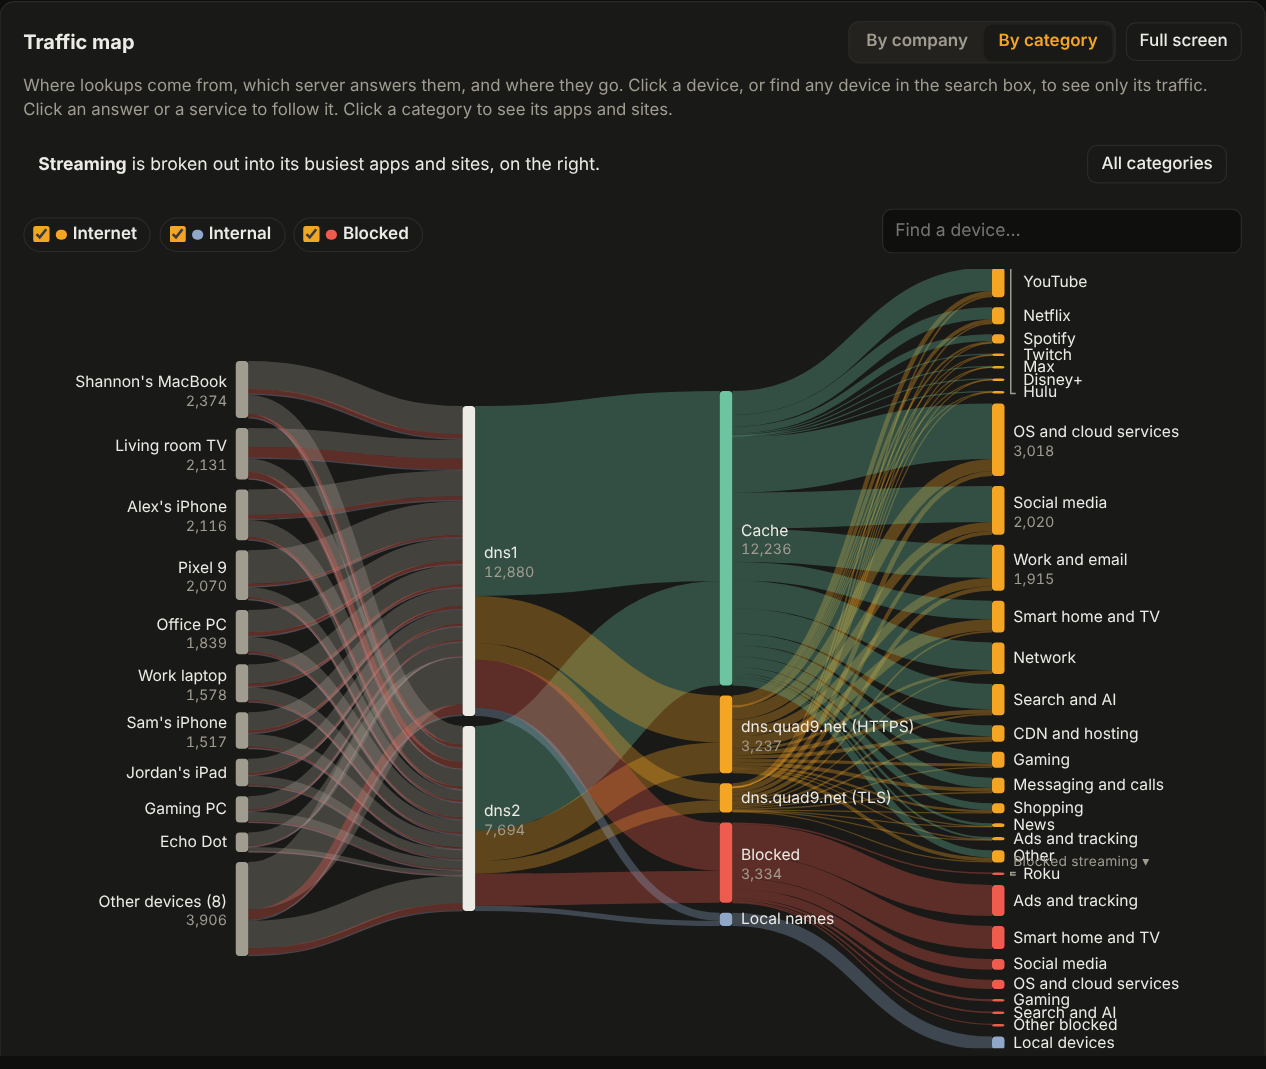
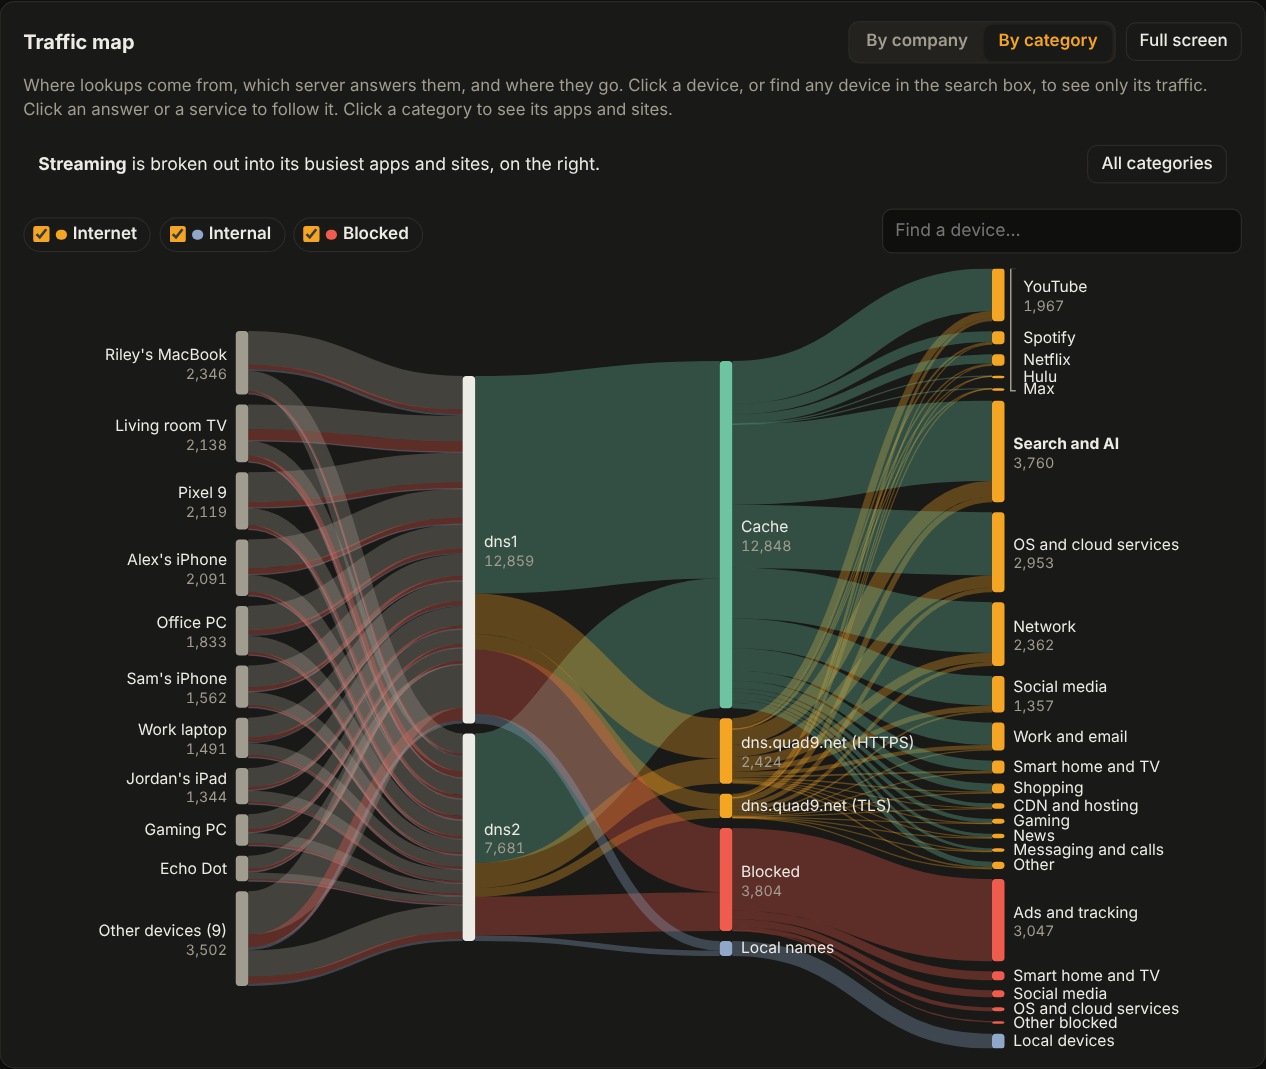
Remove personal details from docs, tests and screenshots
- Retake the dashboard, query log and traffic map screenshots (docs and
  site) from a demo with made-up device names and addresses
- Example addresses and names in tests, docs and the backup form are
  generic now; example time zone is Europe/London

Claude-Session: https://claude.ai/code/session_01KvRQSGxrFQGWFMd7gXRr4G

Changed region(s): [[0.0616, 0.247, 0.9242, 0.9878], [0.8009, 0.4013, 0.9242, 0.4322], [0.4929, 0.5248, 0.5545, 0.5557]]

diff --git a/test/browser/ui.test.js b/test/browser/ui.test.js
@@ -454,23 +454,23 @@ step('the traffic map finds any device, not just the busiest', async () => {
 });
 
 step('the devices page search finds devices despite typos', async () => {
-  for (const [name, addr] of [['Living room TV', '192.168.50.91'], ['Shannon iPhone', '192.168.50.74'], ['Kitchen speaker', '192.168.50.33']]) {
+  for (const [name, addr] of [['Living room TV', '192.168.50.91'], ['Sam iPhone', '192.168.50.74'], ['Kitchen speaker', '192.168.50.33']]) {
     await api('POST', '/devices', { name, addrs: [addr] });
   }
   await go('devices');
   const box = page.getByRole('searchbox', { name: 'Search devices' });
   const rows = page.locator('.card tbody tr').filter({ has: page.locator('td') });
   await box.fill('iphnoe'); // swapped letters
-  await page.getByRole('link', { name: 'Shannon iPhone' }).waitFor();
+  await page.getByRole('link', { name: 'Sam iPhone' }).waitFor();
   assert.equal(await page.getByRole('link', { name: 'Living room TV' }).count(), 0);
   await box.fill('lvrm'); // letters in order
   await page.getByRole('link', { name: 'Living room TV' }).waitFor();
   await box.fill('50.33'); // part of an address
   await page.getByRole('link', { name: 'Kitchen speaker' }).waitFor();
-  assert.equal(await page.getByRole('link', { name: 'Shannon iPhone' }).count(), 0);
+  assert.equal(await page.getByRole('link', { name: 'Sam iPhone' }).count(), 0);
   if (process.env.DEVICE_SEARCH_SHOT) { await box.fill('kichen'); await page.screenshot({ path: process.env.DEVICE_SEARCH_SHOT }); }
   await box.press('Escape');
-  await page.getByRole('link', { name: 'Shannon iPhone' }).waitFor();
+  await page.getByRole('link', { name: 'Sam iPhone' }).waitFor();
   assert.ok(await rows.count() >= 3);
 });
 

diff --git a/internal/web/static/app.js b/internal/web/static/app.js
@@ -5308,7 +5308,7 @@ async function backupsPage(main) {
       h('p', { class: 'muted small' }, 'A shared folder on a NAS or a Windows PC, reached directly over SMB 2 or newer, so nothing has to be mounted on the server.'),
       form({}, [
         h('label', { for: 'smbsv' }, 'Share'),
-        h('input', { id: 'smbsv', name: 'server', type: 'text', value: bk.smb ? t.where : '', placeholder: '\\\\nas.local\\backups\\dnserv  or  smb://192.168.1.254/backups', spellcheck: 'false', required: true }),
+        h('input', { id: 'smbsv', name: 'server', type: 'text', value: bk.smb ? t.where : '', placeholder: '\\\\nas.local\\backups\\dnserv  or  smb://192.168.1.50/backups', spellcheck: 'false', required: true }),
         h('p', { class: 'muted small' }, 'Server, share and (optionally) a folder inside it, written the way Windows or macOS show it. Add :port after the server if it doesn’t use 445.'),
         h('label', { for: 'smbus' }, 'User name'),
         h('input', { id: 'smbus', name: 'user', type: 'text', value: t.user || '', autocomplete: 'off', spellcheck: 'false', required: true }),

diff --git a/site/index.html b/site/index.html
@@ -184,7 +184,7 @@ footer .wrap { display: flex; gap: 16px; flex-wrap: wrap; justify-content: space
   <div class="steps">
     <pre id="qs"><button class="copy" type="button" data-copy="qs">Copy</button>mkdir -p ~/dnserv &amp;&amp; cd ~/dnserv
 curl -fsSLO https://raw.githubusercontent.com/prezmc/DNServ/main/docker-compose.yml
-echo "TZ=America/Chicago" &gt; .env
+echo "TZ=Europe/London" &gt; .env
 docker compose up -d
 
 <span class="c"># the setup code is in the log</span>

diff --git a/internal/api/passkeys_test.go b/internal/api/passkeys_test.go
@@ -112,13 +112,13 @@ func TestPasskeys(t *testing.T) {
 	if b.Domain != "dns1.example.com" || b.Options.RP.ID != "dns1.example.com" {
 		t.Fatalf("passkey domain %q / %q, want this server's name only", b.Domain, b.Options.RP.ID)
 	}
-	admin.want(201, "POST", "/api/v1/auth/passkeys/finish", map[string]any{"ticket": b.Ticket, "name": "Shannon's Mac", "credential": key.create(b.Options)}, nil)
+	admin.want(201, "POST", "/api/v1/auth/passkeys/finish", map[string]any{"ticket": b.Ticket, "name": "Sam's Mac", "credential": key.create(b.Options)}, nil)
 	// The challenge works once.
 	admin.want(400, "POST", "/api/v1/auth/passkeys/finish", map[string]any{"ticket": b.Ticket, "name": "x", "credential": key.create(b.Options)}, nil)
 
 	var list []passkeyView
 	admin.want(200, "GET", "/api/v1/auth/passkeys", nil, &list)
-	if len(list) != 1 || list[0].Name != "Shannon's Mac" || !list[0].Synced || list[0].Domain != "dns1.example.com" {
+	if len(list) != 1 || list[0].Name != "Sam's Mac" || !list[0].Synced || list[0].Domain != "dns1.example.com" {
 		t.Fatalf("list %+v", list)
 	}
 	admin.want(204, "PATCH", "/api/v1/auth/passkeys/"+list[0].ID, map[string]any{"name": "MacBook"}, nil)

diff --git a/cmd/dnserv/metrics_test.go b/cmd/dnserv/metrics_test.go
@@ -7,8 +7,8 @@ func TestMetricsServer(t *testing.T) {
 		"https://dns.nextdns.io/abc123":         "https://dns.nextdns.io",
 		"https://user:pw@doh.example/dns-query": "https://doh.example",
 		"tls://dns.quad9.net":                   "tls://dns.quad9.net",
-		"udp://192.168.1.245:53":                "udp://192.168.1.245:53",
-		"192.168.1.245:53":                      "192.168.1.245:53",
+		"udp://192.0.2.53:53":                "udp://192.0.2.53:53",
+		"192.0.2.53:53":                      "192.0.2.53:53",
 		"1.1.1.1":                               "1.1.1.1",
 	} {
 		if got := metricsServer(in); got != want {

diff --git a/docs/install.md b/docs/install.md
@@ -12,7 +12,7 @@ On a Linux server with Docker and Docker Compose:
 ```bash
 mkdir -p ~/dnserv && cd ~/dnserv
 curl -fsSLO https://raw.githubusercontent.com/prezmc/DNServ/main/docker-compose.yml
-echo "TZ=America/Chicago" > .env      # your time zone, used by schedules
+echo "TZ=Europe/London" > .env      # your time zone, used by schedules
 docker compose up -d
 docker compose logs | grep setup_code
 ```
@@ -65,7 +65,7 @@ Put anything specific to this server in `.env`, next to
 
 | Setting | When you need it |
 |---|---|
-| `TZ=America/Chicago` | Always a good idea: group schedules use it |
+| `TZ=Europe/London` | Always a good idea: group schedules use it |
 | `DNSERV_HTTPS_PORT=8443` | Something else on the server already uses port 443 |
 | `DNSERV_WEB_PORT=8090` | Something else already uses port 8080 |
 | `DNSERV_CLUSTER_PORT=8091` and `DNSERV_CLUSTER_ADVERTISE=192.168.1.10:8091` | Something else already uses port 8081. The second line tells the other servers the new port |
@@ -94,7 +94,7 @@ If you'd rather use `docker run`, this is the same as the compose file:
 ```bash
 docker run -d --name dnserv --restart unless-stopped \
   -p 53:53/udp -p 53:53/tcp -p 853:853 -p 443:443 -p 8080:8080 -p 8081:8081 \
-  -e TZ=America/Chicago -v dnserv-data:/data ghcr.io/prezmc/dnserv:stable
+  -e TZ=Europe/London -v dnserv-data:/data ghcr.io/prezmc/dnserv:stable
 ```
 
 To update, `docker pull ghcr.io/prezmc/dnserv:stable`, then remove the

diff --git a/docs/docker-hub.md b/docs/docker-hub.md
@@ -22,7 +22,7 @@ backups. Works on Intel/AMD (amd64) and ARM (arm64, e.g. Raspberry Pi 4/5).
 ```bash
 docker run -d --name dnserv --restart unless-stopped \
   -p 53:53/udp -p 53:53/tcp -p 853:853 -p 443:443 -p 8080:8080 -p 8081:8081 \
-  -e TZ=America/Chicago -v dnserv-data:/data prezmcmahon/dnserv:stable
+  -e TZ=Europe/London -v dnserv-data:/data prezmcmahon/dnserv:stable
 docker logs dnserv | grep setup_code
 ```
 
@@ -70,7 +70,7 @@ Only `TZ` is worth setting for most people. All of these are optional.
 
 | Variable | Example | When you need it |
 |---|---|---|
-| `TZ` | `America/Chicago` | Always a good idea: blocking schedules use your local time |
+| `TZ` | `Europe/London` | Always a good idea: blocking schedules use your local time |
 | `DNSERV_CLUSTER_ADVERTISE` | `192.168.1.10:8091` | You run 2+ servers and changed host port 8081, or this server is reached at a different address |
 | `DNSERV_HTTPS` | `off` | Only to get back in after a bad dashboard certificate. Remove it afterwards |
 

diff --git a/docs/backups.md b/docs/backups.md
@@ -25,7 +25,7 @@ nobody can open one. Keep it in a password manager.
   backup there.
 - **A network share (SMB):** under **Where backups go**, choose **Set up** on **Network share**
   and enter the share as Windows or macOS shows it
-  (`\\nas.local\backups\dnserv` or `smb://192.168.1.254/backups`), with
+  (`\\nas.local\backups\dnserv` or `smb://192.168.1.50/backups`), with
   a user name and password. DNServ talks SMB 2/3 itself, so nothing needs
   mounting on the server. **Check and save** writes, reads and deletes a
   test file first; **Copy a backup now** sends one straight away. The

diff --git a/docs/automation.md b/docs/automation.md
@@ -65,7 +65,7 @@ curl -s -H "Authorization: Bearer $TOKEN" "$DNSERV/api/v1/auth/me"
 ```
 
 ```json
-{"token":"nightly-script","perms":["dashboard.view","lists.manage"],"user":{"username":"shannon","role":"admin", ...}}
+{"token":"nightly-script","perms":["dashboard.view","lists.manage"],"user":{"username":"admin","role":"admin", ...}}
 ```
 
 `perms` is what this token may do. If you see

diff --git a/docs/deploy-two-servers.md b/docs/deploy-two-servers.md
@@ -65,7 +65,7 @@ On each server, the [standard install](install.md#install):
 ```bash
 mkdir -p ~/dnserv && cd ~/dnserv
 curl -fsSLO https://raw.githubusercontent.com/prezmc/DNServ/main/docker-compose.yml
-echo "TZ=America/Chicago" > .env
+echo "TZ=Europe/London" > .env
 docker compose up -d
 docker compose logs | grep setup_code
 ```

diff --git a/README.md b/README.md
@@ -32,7 +32,7 @@
 ```bash
 mkdir -p ~/dnserv && cd ~/dnserv
 curl -fsSLO https://raw.githubusercontent.com/prezmc/DNServ/main/docker-compose.yml
-echo "TZ=America/Chicago" > .env      # your time zone
+echo "TZ=Europe/London" > .env      # your time zone
 docker compose up -d
 docker compose logs | grep setup_code
 ```
